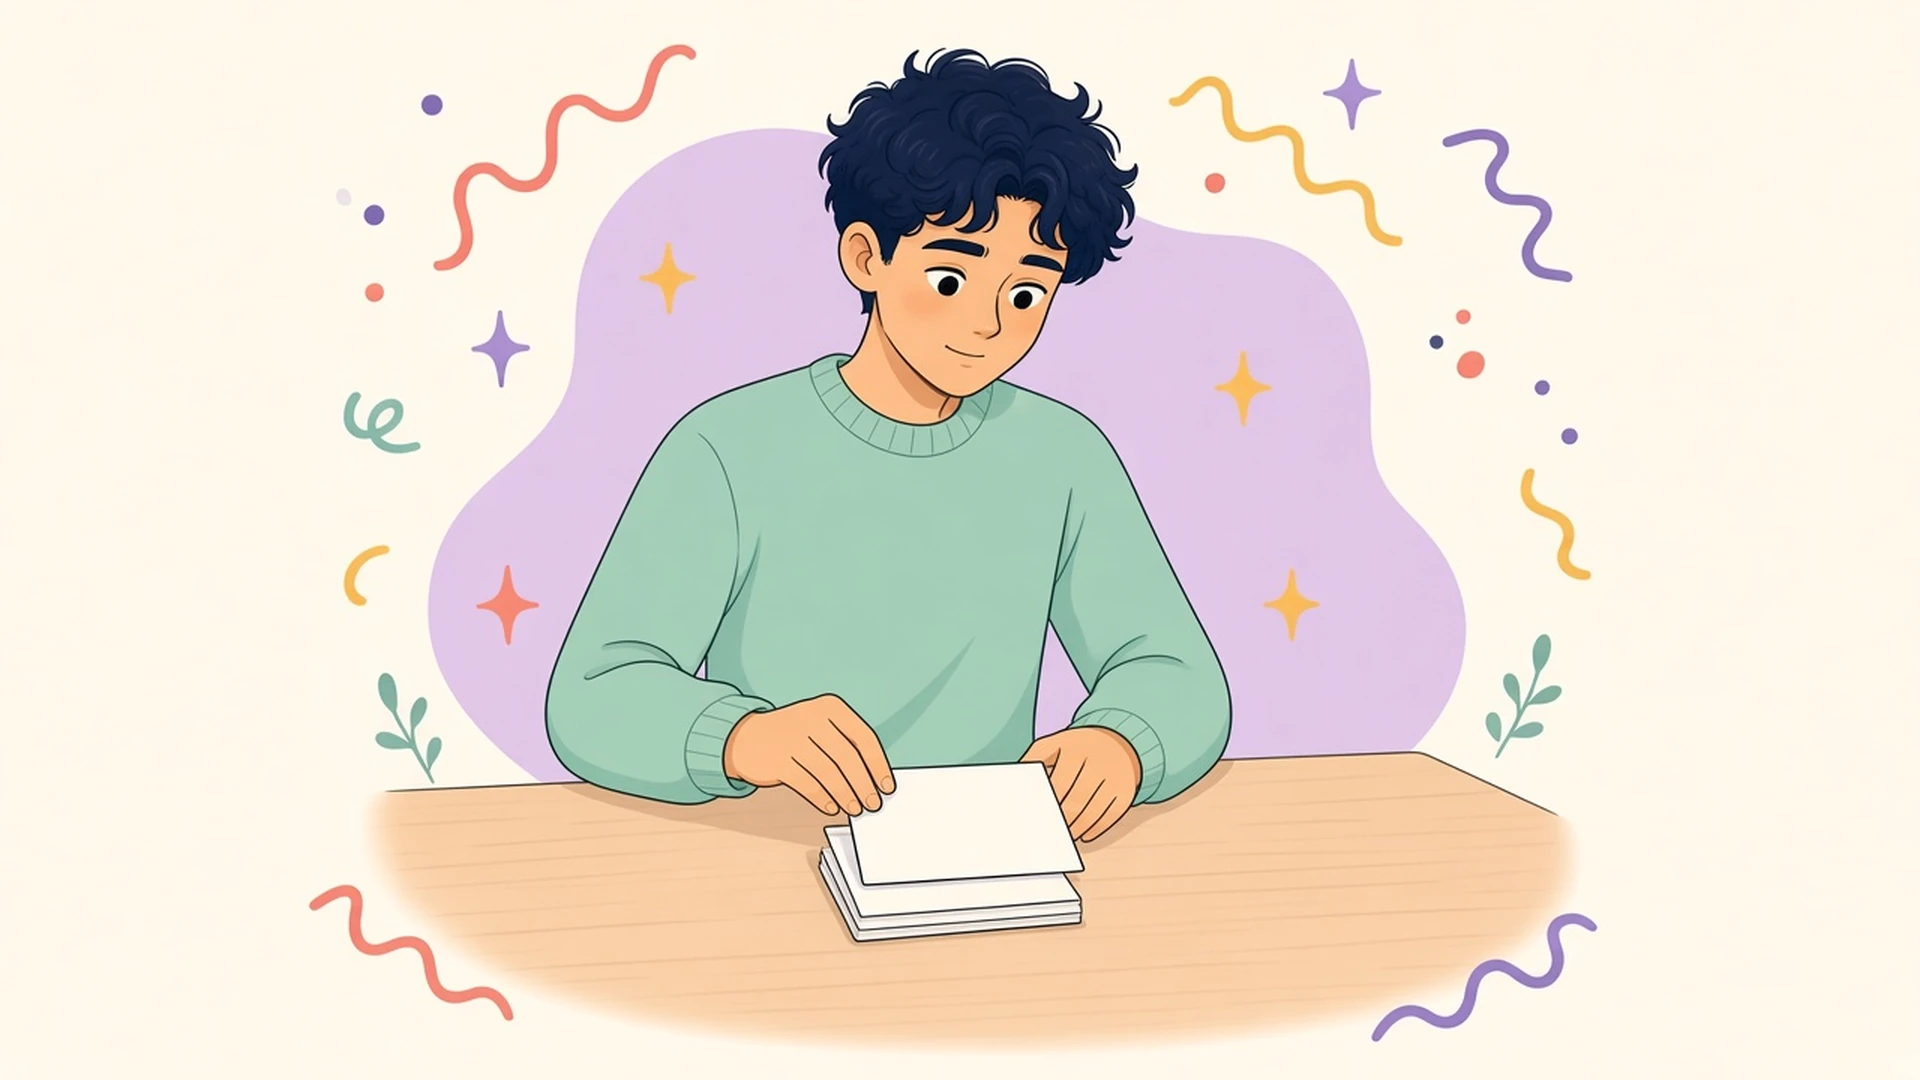
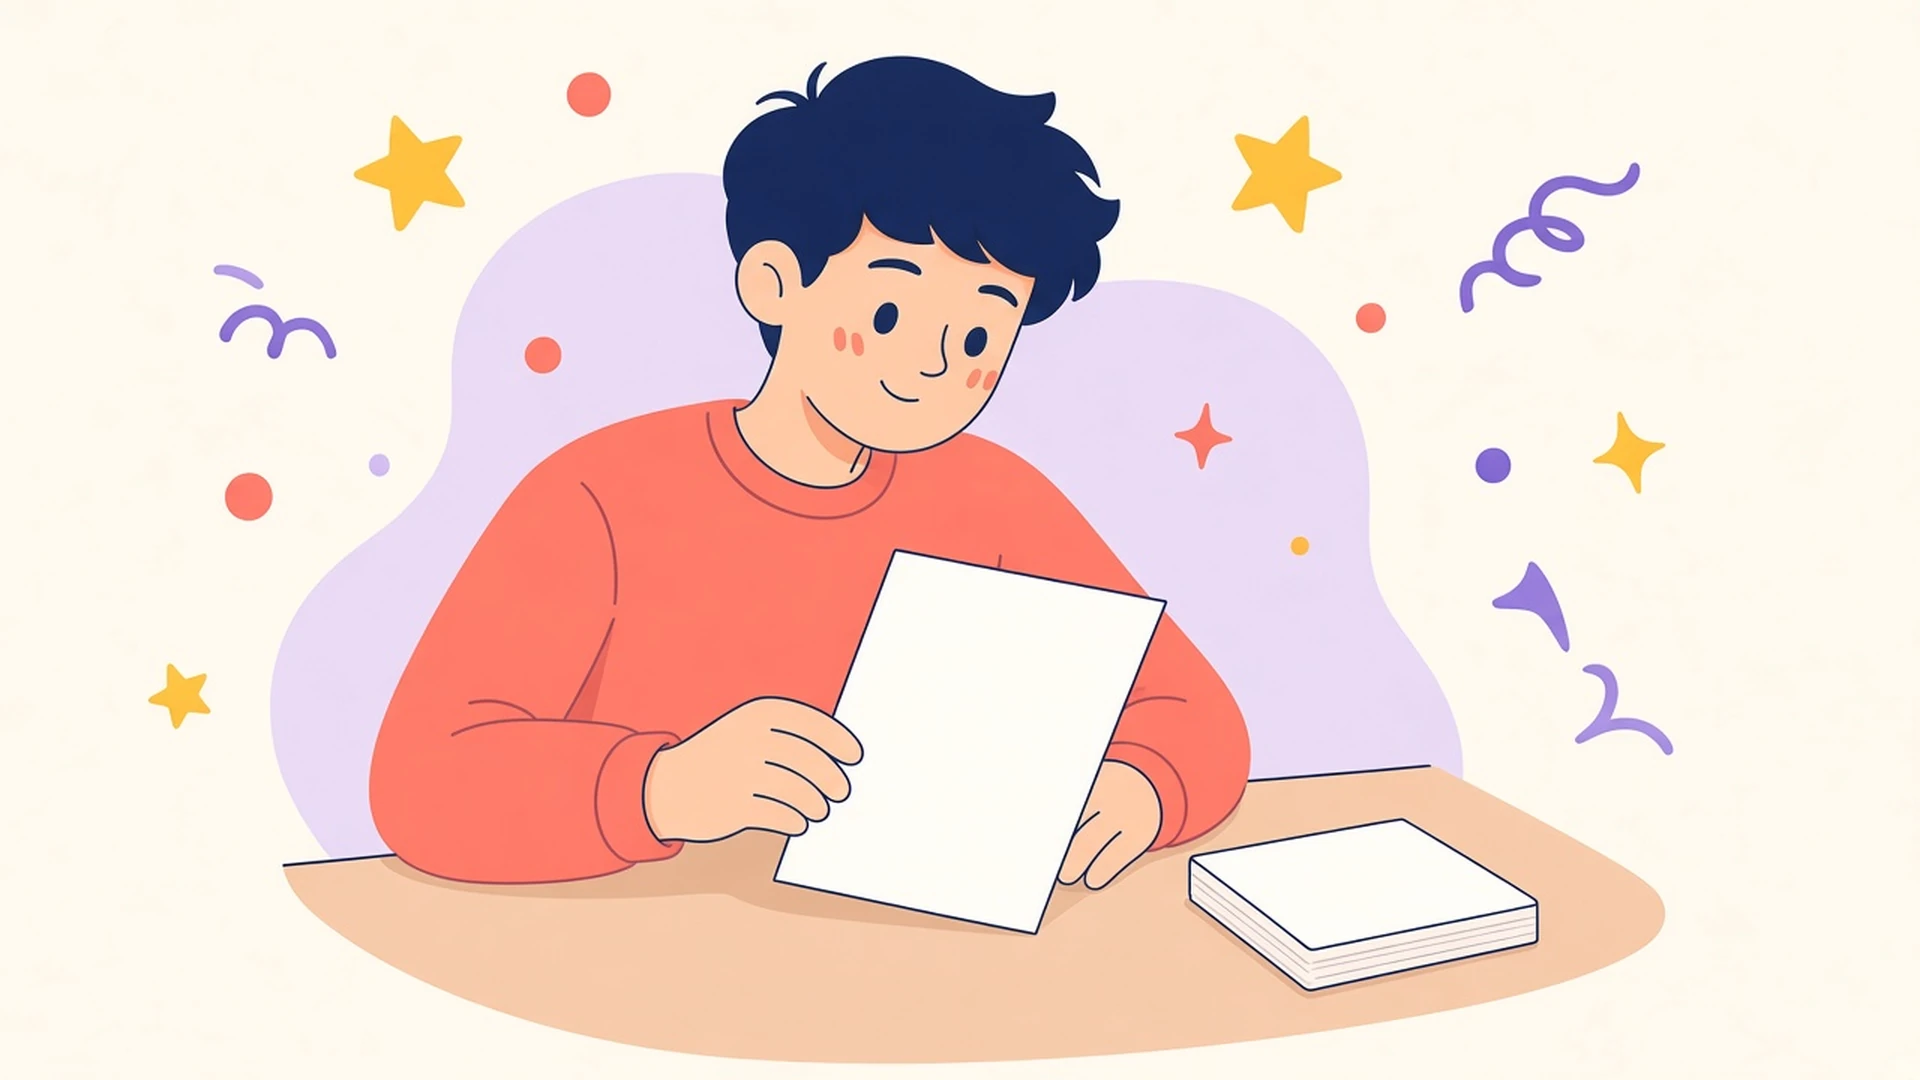
Swap three Daily Digest heroes to Style C stickers (#34)
Replace the Oct 26–27 monoline webps with the Brand Style C versions and align the hero alt text to the new art. Pad stays #FDFAF5.

diff --git a/content/posts.ts b/content/posts.ts
@@ -1442,7 +1442,7 @@ export const posts: Post[] = [
     dek: "Bundling questions saves calls, but the ones that need thinking break.",
     hero: {
       src: "/art/digest/ask-multi-step-questions-on-their-own-sticker.webp",
-      alt: "Line drawing of a person at a desk lifting one large card away from a neat stack of small cards, in soft lavender and mint.",
+      alt: "A person in a coral sweater holding one large card apart from a neat stack of small cards, navy outlines.",
       pad: "#FDFAF5",
     },
     date: "2026-10-26",
@@ -1475,7 +1475,7 @@ export const posts: Post[] = [
     dek: "If a tool hides a cap or guess, agent and checker treat it as fact.",
     hero: {
       src: "/art/digest/make-tools-say-what-they-skipped-sticker.webp",
-      alt: "Line drawing of a person reading a short printout while a second figure holds up a longer list, in soft lavender and mint.",
+      alt: "A person holding a short truncated printout beside another person holding a longer true scroll, coral and purple sweaters, navy outlines.",
       pad: "#FDFAF5",
     },
     date: "2026-10-26",
@@ -1501,7 +1501,7 @@ export const posts: Post[] = [
     dek: "Write your checks before a complaint, or good work gets thrown away.",
     hero: {
       src: "/art/digest/write-down-your-checks-before-pushback-sticker.webp",
-      alt: "Line drawing of a person writing a short checklist on a notepad before reading a complaint slip, in soft lavender and mint.",
+      alt: "A person in a purple sweater writing a checklist on a notepad at a desk before reading a complaint slip, navy outlines.",
       pad: "#FDFAF5",
     },
     date: "2026-10-27",
